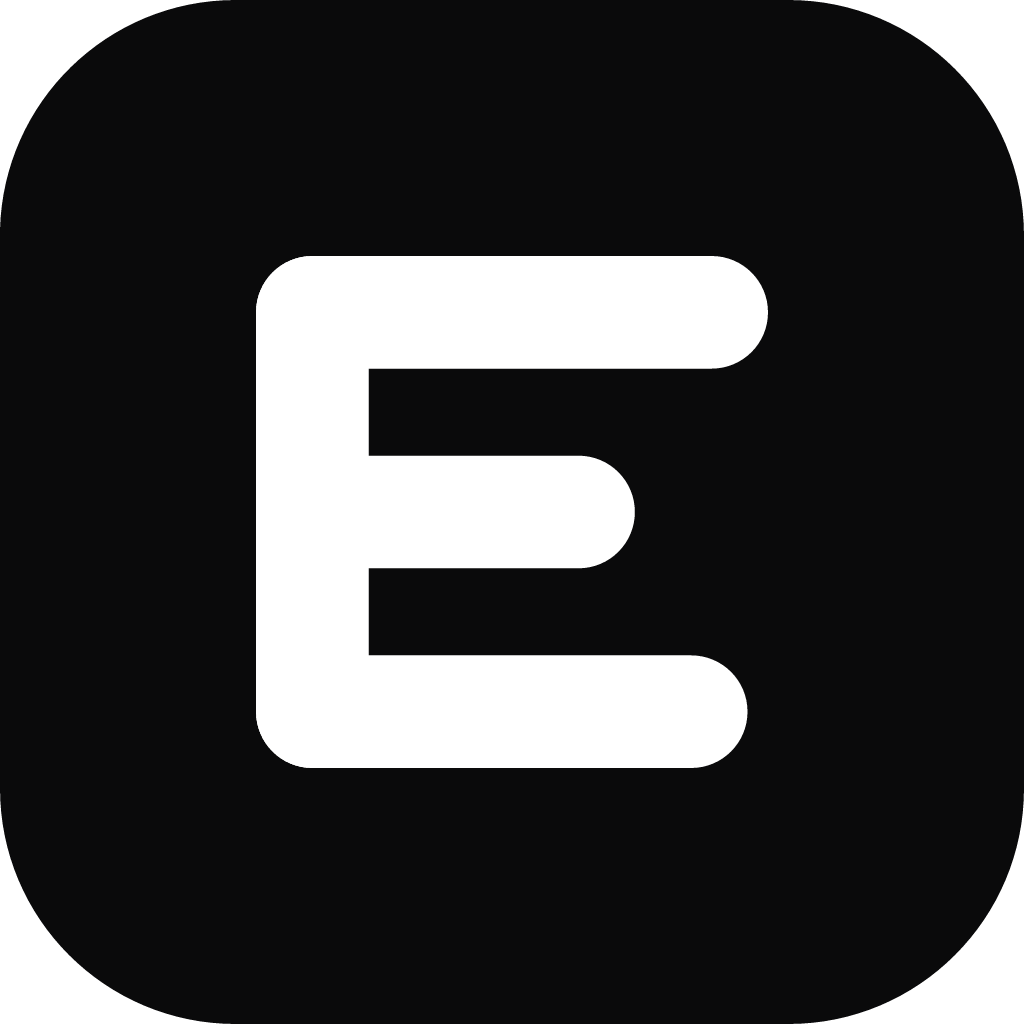
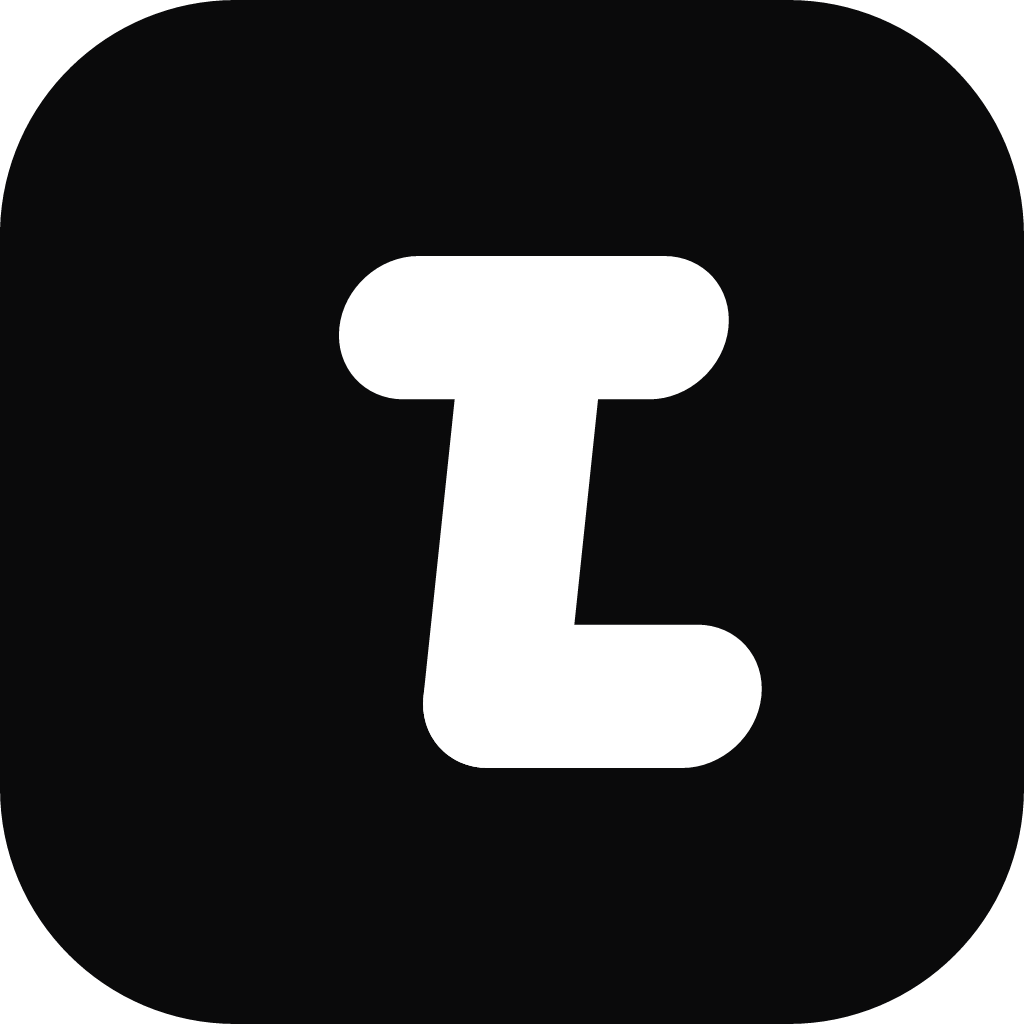
Redesign app mark as L+T monogram (forward-leaning, B&W)
Per clarified direction: keep the original mark's L+T combined layout (stem +
top T-crossbar + bottom L-foot) but rebuild it as a thick, rounded geometric
monogram with a subtle ~6° forward lean for motion (Linear/Arc vibe). Gothic
serifs, cross finial, bone-ends and sparkles all removed. Black & white, flat,
rounded squircle tile; scales cleanly to favicon size.

- loadout-mark.svg now the leaning L+T monogram (+ matching -light and -glyph).
- Regenerate loadout-mark.png (512), loadout-mark-1024.png, loadout-mark-light.png.
- Replace the prior E/stack explorations with three L+T takes: tl-02 (thick,
  primary), tl-01 (lighter), tl-03-Lonly (pure L with the same lean).
- Refresh the comparison sheet, preview.html and READMEs to the L+T direction.

https://claude.ai/code/session_018TGbuzh3rNn5bU3TwKQNDz

Changed region(s): [[0.25, 0.25, 0.75, 0.75]]

diff --git a/brand/mark-explorations/preview.html b/brand/mark-explorations/preview.html
@@ -3,9 +3,9 @@
 <head>
 <meta charset="utf-8"/>
 <meta name="viewport" content="width=device-width, initial-scale=1"/>
-<title>Loadout.ai — mark explorations</title>
+<title>Loadout.ai — L+T monogram</title>
 <style>
-  :root{ --black:#0A0A0B; --white:#FFFFFF; --ink:#0A0A0B; --muted:#6B7280; --line:#E4E4E7; --bg:#F4F4F5 }
+  :root{ --black:#0A0A0B; --ink:#0A0A0B; --muted:#6B7280; --line:#E4E4E7; --bg:#F4F4F5 }
   *{ box-sizing:border-box }
   body{ margin:0; background:var(--bg); color:var(--ink);
         font-family:'Inter','Helvetica Neue',Arial,sans-serif; -webkit-font-smoothing:antialiased }
@@ -16,7 +16,6 @@
   .card{ background:#fff; border:1px solid var(--line); border-radius:20px; padding:28px 20px; text-align:center }
   .card.pick{ border-color:var(--black); box-shadow:0 6px 30px rgba(0,0,0,.08) }
   .tiles{ display:flex; align-items:flex-end; justify-content:center; gap:18px; margin-bottom:18px }
-  .tile{ display:inline-flex; align-items:center; justify-content:center }
   .name{ font-weight:800; font-size:19px; margin:4px 0 2px }
   .desc{ color:var(--muted); font-size:13.5px; min-height:34px }
   .badge{ display:inline-block; margin-top:10px; background:var(--black); color:#fff; font-size:11px;
@@ -25,68 +24,56 @@
   .lockup{ display:flex; align-items:center; justify-content:center; gap:16px; margin:8px auto 56px;
            background:#fff; border:1px solid var(--line); border-radius:20px; padding:26px; max-width:520px }
   .lockup .word{ font-weight:800; font-size:40px; letter-spacing:-1.5px }
-  .section{ text-align:center; color:var(--muted); font-size:13px; letter-spacing:1px; text-transform:uppercase; margin:8px 0 4px }
-  /* shared squircle tiles */
-  .sq{ border-radius:23%; }
+  .inv{ stroke:#D4D4D8; stroke-width:2 }
 </style>
 </head>
 <body>
 <header>
-  <h1>Loadout.ai — app-mark explorations</h1>
-  <p>Black &amp; white · flat vector · rounded squircle · scales cleanly to favicon size</p>
+  <h1>Loadout.ai — L+T monogram</h1>
+  <p>L+T combined · thick rounded geometry · subtle forward lean · black &amp; white</p>
 </header>
 
 <div class="grid">
-  <!-- ============ OPTION 1: STACK / E (recommended) ============ -->
+  <!-- OPTION 1: L+T thick (recommended) -->
   <div class="card pick">
     <div class="tiles">
-      <span class="tile"><svg width="120" height="120" viewBox="0 0 200 200" class="sq"><rect width="200" height="200" rx="46" fill="#0A0A0B"/><g fill="#fff"><rect x="50" y="50" width="22" height="100" rx="11"/><rect x="50" y="50" width="100" height="22" rx="11"/><rect x="50" y="89" width="74" height="22" rx="11"/><rect x="50" y="128" width="96" height="22" rx="11"/></g></svg></span>
-      <span class="tile"><svg width="56" height="56" viewBox="0 0 200 200"><rect width="200" height="200" rx="46" fill="#fff" stroke="#D4D4D8" stroke-width="2"/><g fill="#0A0A0B"><rect x="50" y="50" width="22" height="100" rx="11"/><rect x="50" y="50" width="100" height="22" rx="11"/><rect x="50" y="89" width="74" height="22" rx="11"/><rect x="50" y="128" width="96" height="22" rx="11"/></g></svg></span>
+      <svg width="120" height="120" viewBox="0 0 200 200"><rect width="200" height="200" rx="46" fill="#0A0A0B"/><g fill="#fff" transform="translate(11,0) skewX(-6)"><rect x="86" y="50" width="28" height="100" rx="14"/><rect x="62" y="50" width="76" height="28" rx="14"/><rect x="86" y="122" width="66" height="28" rx="14"/></g></svg>
+      <svg width="56" height="56" viewBox="0 0 200 200"><rect class="inv" width="200" height="200" rx="46" fill="#fff"/><g fill="#0A0A0B" transform="translate(11,0) skewX(-6)"><rect x="86" y="50" width="28" height="100" rx="14"/><rect x="62" y="50" width="76" height="28" rx="14"/><rect x="86" y="122" width="66" height="28" rx="14"/></g></svg>
     </div>
-    <div class="name">Stack · E</div>
-    <div class="desc">Faithful transform of your uploaded symbol — a vertical stem with three rounded bars.</div>
+    <div class="name">L + T · thick</div>
+    <div class="desc">Faithful L+T combined — stem, T-crossbar, L-foot — with a subtle forward lean.</div>
     <div class="favrow">
-      <svg width="32" height="32" viewBox="0 0 200 200"><rect width="200" height="200" rx="46" fill="#0A0A0B"/><g fill="#fff"><rect x="50" y="50" width="22" height="100" rx="11"/><rect x="50" y="50" width="100" height="22" rx="11"/><rect x="50" y="89" width="74" height="22" rx="11"/><rect x="50" y="128" width="96" height="22" rx="11"/></g></svg>
-      <svg width="20" height="20" viewBox="0 0 200 200"><rect width="200" height="200" rx="46" fill="#0A0A0B"/><g fill="#fff"><rect x="50" y="50" width="22" height="100" rx="11"/><rect x="50" y="50" width="100" height="22" rx="11"/><rect x="50" y="89" width="74" height="22" rx="11"/><rect x="50" y="128" width="96" height="22" rx="11"/></g></svg>
+      <svg width="32" height="32" viewBox="0 0 200 200"><rect width="200" height="200" rx="46" fill="#0A0A0B"/><g fill="#fff" transform="translate(11,0) skewX(-6)"><rect x="86" y="50" width="28" height="100" rx="14"/><rect x="62" y="50" width="76" height="28" rx="14"/><rect x="86" y="122" width="66" height="28" rx="14"/></g></svg>
+      <svg width="20" height="20" viewBox="0 0 200 200"><rect width="200" height="200" rx="46" fill="#0A0A0B"/><g fill="#fff" transform="translate(11,0) skewX(-6)"><rect x="86" y="50" width="28" height="100" rx="14"/><rect x="62" y="50" width="76" height="28" rx="14"/><rect x="86" y="122" width="66" height="28" rx="14"/></g></svg>
       <span>32 · 20px</span>
     </div>
     <span class="badge">RECOMMENDED</span>
   </div>
 
-  <!-- ============ OPTION 2: CLEAN L ============ -->
+  <!-- OPTION 2: L+T light -->
   <div class="card">
     <div class="tiles">
-      <span class="tile"><svg width="120" height="120" viewBox="0 0 200 200" class="sq"><rect width="200" height="200" rx="46" fill="#0A0A0B"/><g fill="#fff"><rect x="62" y="46" width="24" height="102" rx="12"/><rect x="62" y="124" width="86" height="24" rx="12"/></g></svg></span>
-      <span class="tile"><svg width="56" height="56" viewBox="0 0 200 200"><rect width="200" height="200" rx="46" fill="#fff" stroke="#D4D4D8" stroke-width="2"/><g fill="#0A0A0B"><rect x="62" y="46" width="24" height="102" rx="12"/><rect x="62" y="124" width="86" height="24" rx="12"/></g></svg></span>
+      <svg width="120" height="120" viewBox="0 0 200 200"><rect width="200" height="200" rx="46" fill="#0A0A0B"/><g fill="#fff" transform="translate(14,0) skewX(-8)"><rect x="88" y="54" width="24" height="92" rx="12"/><rect x="58" y="54" width="84" height="24" rx="12"/><rect x="88" y="122" width="64" height="24" rx="12"/></g></svg>
+      <svg width="56" height="56" viewBox="0 0 200 200"><rect class="inv" width="200" height="200" rx="46" fill="#fff"/><g fill="#0A0A0B" transform="translate(14,0) skewX(-8)"><rect x="88" y="54" width="24" height="92" rx="12"/><rect x="58" y="54" width="84" height="24" rx="12"/><rect x="88" y="122" width="64" height="24" rx="12"/></g></svg>
     </div>
-    <div class="name">Clean · L</div>
-    <div class="desc">Premium geometric monogram. Leans into the “Loadout” name; matches the existing brand mark.</div>
-    <div class="favrow">
-      <svg width="32" height="32" viewBox="0 0 200 200"><rect width="200" height="200" rx="46" fill="#0A0A0B"/><g fill="#fff"><rect x="62" y="46" width="24" height="102" rx="12"/><rect x="62" y="124" width="86" height="24" rx="12"/></g></svg>
-      <svg width="20" height="20" viewBox="0 0 200 200"><rect width="200" height="200" rx="46" fill="#0A0A0B"/><g fill="#fff"><rect x="62" y="46" width="24" height="102" rx="12"/><rect x="62" y="124" width="86" height="24" rx="12"/></g></svg>
-      <span>32 · 20px</span>
-    </div>
+    <div class="name">L + T · light</div>
+    <div class="desc">Same monogram, lighter weight and a wider T-bar for a more open feel.</div>
   </div>
 
-  <!-- ============ OPTION 3: BRACKET / Lo ============ -->
+  <!-- OPTION 3: L lean -->
   <div class="card">
     <div class="tiles">
-      <span class="tile"><svg width="120" height="120" viewBox="0 0 200 200" class="sq"><rect width="200" height="200" rx="46" fill="#0A0A0B"/><g fill="#fff"><rect x="54" y="54" width="20" height="96" rx="10"/><rect x="54" y="130" width="86" height="20" rx="10"/><rect x="90" y="80" width="44" height="44" rx="13"/></g></svg></span>
-      <span class="tile"><svg width="56" height="56" viewBox="0 0 200 200"><rect width="200" height="200" rx="46" fill="#fff" stroke="#D4D4D8" stroke-width="2"/><g fill="#0A0A0B"><rect x="54" y="54" width="20" height="96" rx="10"/><rect x="54" y="130" width="86" height="20" rx="10"/><rect x="90" y="80" width="44" height="44" rx="13"/></g></svg></span>
+      <svg width="120" height="120" viewBox="0 0 200 200"><rect width="200" height="200" rx="46" fill="#0A0A0B"/><g fill="#fff" transform="translate(13,0) skewX(-8)"><rect x="84" y="50" width="26" height="100" rx="13"/><rect x="84" y="124" width="66" height="26" rx="13"/></g></svg>
+      <svg width="56" height="56" viewBox="0 0 200 200"><rect class="inv" width="200" height="200" rx="46" fill="#fff"/><g fill="#0A0A0B" transform="translate(13,0) skewX(-8)"><rect x="84" y="50" width="26" height="100" rx="13"/><rect x="84" y="124" width="66" height="26" rx="13"/></g></svg>
     </div>
-    <div class="name">Bracket · Lo</div>
-    <div class="desc">An L-bracket cradling a loaded module — a literal “loadout slot,” also reads as “Lo”.</div>
-    <div class="favrow">
-      <svg width="32" height="32" viewBox="0 0 200 200"><rect width="200" height="200" rx="46" fill="#0A0A0B"/><g fill="#fff"><rect x="54" y="54" width="20" height="96" rx="10"/><rect x="54" y="130" width="86" height="20" rx="10"/><rect x="90" y="80" width="44" height="44" rx="13"/></g></svg>
-      <svg width="20" height="20" viewBox="0 0 200 200"><rect width="200" height="200" rx="46" fill="#0A0A0B"/><g fill="#fff"><rect x="54" y="54" width="20" height="96" rx="10"/><rect x="54" y="130" width="86" height="20" rx="10"/><rect x="90" y="80" width="44" height="44" rx="13"/></g></svg>
-      <span>32 · 20px</span>
-    </div>
+    <div class="name">L · lean</div>
+    <div class="desc">Pure “L” monogram with the same forward lean — drops the T entirely.</div>
   </div>
 </div>
 
-<div class="section">Wordmark lockup (recommended mark)</div>
+<div style="text-align:center;color:#9CA3AF;font-size:13px;letter-spacing:1px;text-transform:uppercase;margin:8px 0 4px">Wordmark lockup (recommended mark)</div>
 <div class="lockup">
-  <svg width="64" height="64" viewBox="0 0 200 200" class="sq"><rect width="200" height="200" rx="46" fill="#0A0A0B"/><g fill="#fff"><rect x="50" y="50" width="22" height="100" rx="11"/><rect x="50" y="50" width="100" height="22" rx="11"/><rect x="50" y="89" width="74" height="22" rx="11"/><rect x="50" y="128" width="96" height="22" rx="11"/></g></svg>
+  <svg width="64" height="64" viewBox="0 0 200 200"><rect width="200" height="200" rx="46" fill="#0A0A0B"/><g fill="#fff" transform="translate(11,0) skewX(-6)"><rect x="86" y="50" width="28" height="100" rx="14"/><rect x="62" y="50" width="76" height="28" rx="14"/><rect x="86" y="122" width="66" height="28" rx="14"/></g></svg>
   <span class="word">Loadout<span style="color:#6B7280">.ai</span></span>
 </div>
 

diff --git a/brand/mark-explorations/README.md b/brand/mark-explorations/README.md
@@ -1,23 +1,26 @@
-# App-mark explorations
+# App-mark explorations — L+T monogram
 
-Three black-&-white, flat-vector directions for the Loadout.ai app mark — a
-modern, geometric reworking of the old gothic symbol. All gothic / serif /
-sparkle / cross detailing has been stripped out in favour of clean rounded
-forms, strong negative space, and a rounded-squircle tile (≈23% corner radius)
-that reads cleanly from a 1024px app icon down to a 20px favicon.
+Modern, black-&-white reworkings of the old gothic mark. The original symbol
+was an **L+T combined** monogram (a vertical stem with a **T** crossbar on top
+and an **L** foot at the bottom) buried under gothic serifs, bone-ends, a cross
+finial, and sparkles. These keep that L+T skeleton and rebuild it as a thick,
+rounded geometric mark with a **subtle forward lean** (for motion, à la
+Linear / Arc), inside a rounded squircle tile (~23% corner radius). All gothic /
+occult / medieval / religious cues are removed. Reads cleanly from a 1024px app
+icon down to a ~20px favicon.
 
-| File | Direction | Reads as |
+| File | Direction | Notes |
 |---|---|---|
-| `01-stack-e.svg` | **Stack · E** — *current primary* | Vertical stem + three rounded bars: an “E” / a loaded stack of modules. Faithful transform of the uploaded symbol. |
-| `02-clean-l.svg` | **Clean · L** | A premium geometric monogram; leans into the “Loadout” name and matches the old brand mark. |
-| `03-bracket.svg` | **Bracket · Lo** | An L-bracket cradling a rounded module — a literal “loadout slot,” also reads as “Lo”. |
+| `tl-02.svg` | **L + T · thick** — *current primary* | Faithful L+T combined; thick rounded bars, gentle ~6° lean. |
+| `tl-01.svg` | **L + T · light** | Same monogram, lighter weight and a wider T-bar. |
+| `tl-03-Lonly.svg` | **L · lean** | Pure “L” monogram with the same forward lean (drops the T). |
 
-- **`options-contact-sheet.png`** — side-by-side comparison (large icon · inverted · favicon).
-- **`preview.html`** — open in a browser to compare live and screenshot.
+- **`options-contact-sheet.png`** — side-by-side comparison (large · inverted · favicon).
+- **`preview.html`** — open in a browser to compare live, including a wordmark lockup.
 
 ## Current primary
 
-`brand/loadout-mark.svg` is currently **Stack · E**, with these companions:
+`brand/loadout-mark.svg` is currently **L + T · thick** (`tl-02`), with companions:
 
 | File | What |
 |---|---|
@@ -32,10 +35,11 @@ that reads cleanly from a 1024px app icon down to a 20px favicon.
 
 1. Copy your chosen option over the primary, e.g.:
    ```sh
-   cp brand/mark-explorations/02-clean-l.svg brand/loadout-mark.svg
+   cp brand/mark-explorations/tl-01.svg brand/loadout-mark.svg
    ```
-   (then mirror its glyph into `loadout-mark-light.svg` / `loadout-mark-glyph.svg`).
-2. Re-export the PNGs. These were rendered with [`@resvg/resvg-js`](https://github.com/yisibl/resvg-js):
+   then mirror its glyph into `loadout-mark-light.svg` (white tile / `#0A0A0B`
+   glyph) and `loadout-mark-glyph.svg` (no tile).
+2. Re-export the PNGs with [`@resvg/resvg-js`](https://github.com/yisibl/resvg-js):
    ```sh
    npm i @resvg/resvg-js
    node -e "const{Resvg}=require('@resvg/resvg-js'),fs=require('fs');\
@@ -45,7 +49,13 @@ that reads cleanly from a 1024px app icon down to a 20px favicon.
    fs.writeFileSync(o,new Resvg(fs.readFileSync(s),{fitTo:{mode:'width',value:w}}).render().asPng());"
    ```
 
+## Tuning the lean
+
+The forward lean is a `skewX(-6)` (or `-8`) on the glyph group, with a small
+`translate(x)` to recenter. Reduce toward `-4` for more upright, increase toward
+`-10` for more motion.
+
 ## Colour
 
 Rich near-black `#0A0A0B` (matches the brand background) + pure white `#FFFFFF`.
-Swap to literal `#000000` if you prefer absolute black.
+Swap to literal `#000000` for absolute black.

diff --git a/brand/README.md b/brand/README.md
@@ -12,11 +12,13 @@ All brand assets live here. They're hand-built as SVG / HTML so they're vector, 
 | `loadout-mark-light.svg` | Square mark, inverted (dark glyph on white tile) |
 | `loadout-mark-glyph.svg` | Glyph only, transparent — recolour via `fill` |
 
-The square mark is **black & white, flat vector** — a clean geometric "E"/stack
-in a rounded squircle tile. It scales sharply from a 1024px app icon down to a
-20px favicon. Three alternate directions (incl. an "L" monogram) and a live
-comparison live in [`mark-explorations/`](./mark-explorations/) — promote any of
-them to primary by following that folder's README.
+The square mark is **black & white, flat vector** — an **L+T monogram** (a stem
+with a T-crossbar on top and an L-foot below) built from thick rounded bars with
+a subtle forward lean, in a rounded squircle tile. It scales sharply from a
+1024px app icon down to a 20px favicon. Two alternate directions (a lighter L+T
+and a pure "L") and a live comparison live in
+[`mark-explorations/`](./mark-explorations/) — promote any of them to primary by
+following that folder's README.
 
 **To export PNG:** `loadout-mark.png` (512), `loadout-mark-1024.png` and
 `loadout-mark-light.png` are committed. To regenerate, open the SVG in a browser
